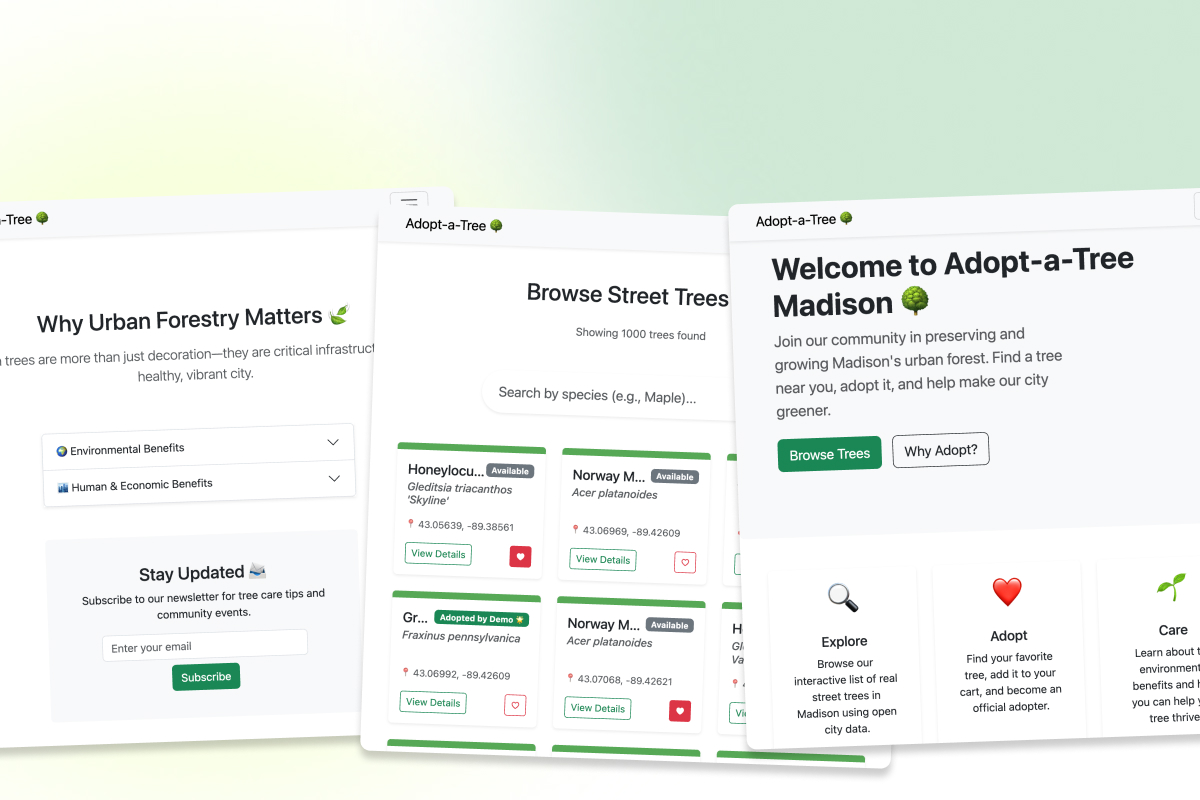
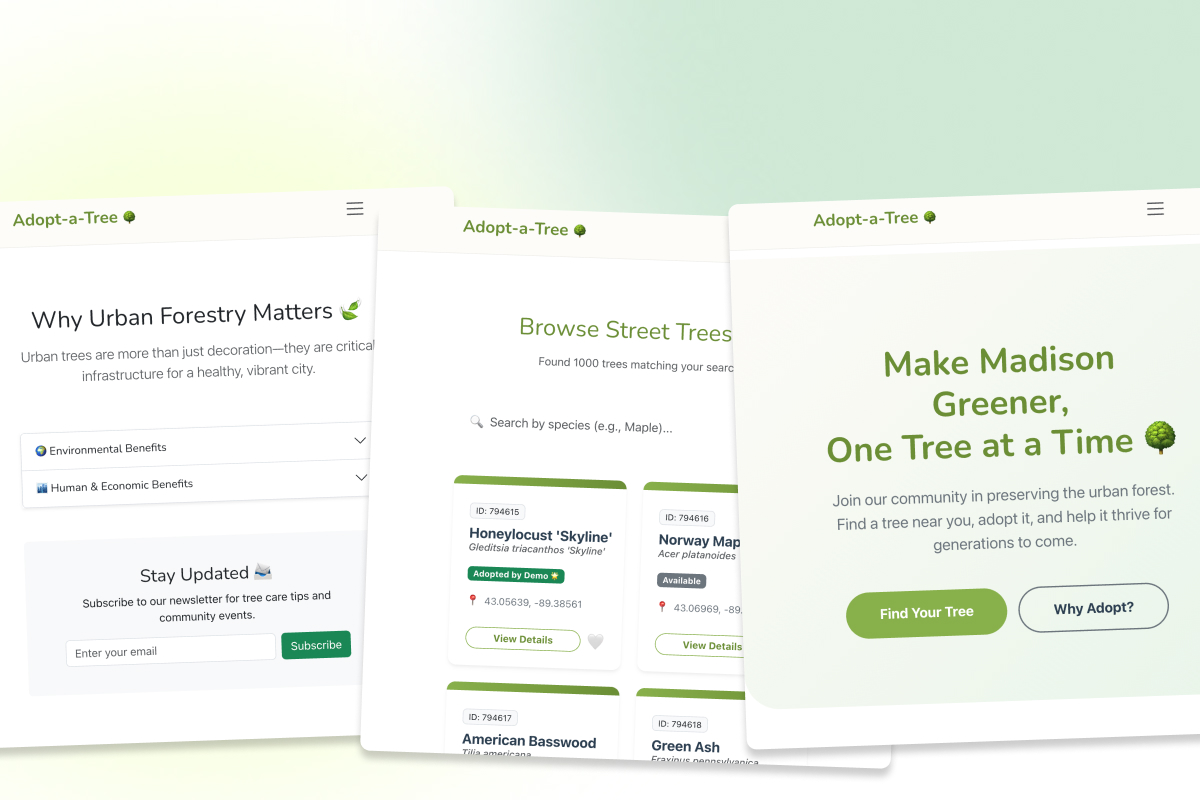
tab title modified, highlight responsibility enhanced

diff --git a/docs/assets/index-Dex9a5OG.css b/docs/assets/index-Dex9a5OG.css
@@ -1,0 +1,1 @@
+:root{--primary-color: #FDACAC;--primary-hover: #FD7979;--background-color: #fff0f3;--surface-color: #ffffff;--text-color: #4a5568;--text-muted: #94a3b8;--accent-color: #a0c4ff;--accent-glow: #fdfd96;--spacing-xs: .5rem;--spacing-sm: 1rem;--spacing-md: 2rem;--spacing-lg: 4rem;--spacing-xl: 8rem;--font-heading: "Outfit", sans-serif;--font-body: "Inter", sans-serif;--container-width: 1200px;--header-height: 80px;--border-radius: 20px}*{margin:0;padding:0;box-sizing:border-box}html{scroll-behavior:smooth}body{font-family:var(--font-body);background-color:var(--background-color);color:var(--text-color);line-height:1.6;overflow-x:hidden}h1,h2,h3,h4,h5,h6{font-family:var(--font-heading);color:var(--text-color);line-height:1.2}a{text-decoration:none;color:inherit;transition:all .3s ease}ul{list-style:none}img{max-width:100%;display:block}.container{max-width:var(--container-width);margin:0 auto;padding:0 var(--spacing-sm)}.btn{display:inline-block;padding:.75rem 1.75rem;border-radius:99px;font-weight:600;cursor:pointer;transition:all .3s ease}.btn-primary{background-color:var(--primary-color);color:#fff;box-shadow:0 4px 14px #ff8fa366}.btn-primary:hover{background-color:var(--primary-hover);transform:translateY(-2px) scale(1.02);box-shadow:0 6px 20px #ff8fa399}.btn-secondary{background-color:#fff;border:2px solid var(--primary-color);color:var(--primary-color)}.btn-secondary:hover{background-color:var(--primary-color);color:#fff;transform:translateY(-2px)}.section{padding:var(--spacing-lg) 0}#about .container,#contact .container{display:flex;flex-direction:column;align-items:center;text-align:center}.about-content{max-width:700px}.section-title{font-size:2.5rem;margin-bottom:var(--spacing-md);text-align:center;color:var(--text-color)}.header{height:var(--header-height);display:flex;align-items:center;position:fixed;top:0;left:0;width:100%;background-color:#fff3;-webkit-backdrop-filter:blur(12px);backdrop-filter:blur(12px);z-index:1000;border-bottom:1px solid rgba(255,143,163,.1)}.header .container{display:flex;justify-content:space-between;align-items:center;width:100%}.logo{font-family:var(--font-heading);font-size:1.75rem;font-weight:800;color:var(--primary-color);letter-spacing:-1px}.nav-list{display:flex;gap:var(--spacing-md)}.nav-link{font-weight:500}.nav-link:hover{color:var(--primary-color)}.hero-section{min-height:100vh;display:flex;align-items:center;padding-top:var(--header-height);background:radial-gradient(circle at 10% 10%,rgba(255,143,163,.1),transparent 40%),radial-gradient(circle at 90% 90%,rgba(160,196,255,.1),transparent 40%)}.hero-title{font-size:clamp(2.5rem,5vw,4.5rem);margin-bottom:var(--spacing-sm);max-width:800px;color:var(--text-color)}.highlight{color:var(--primary-color);position:relative;z-index:1}.highlight:after{content:"";position:absolute;bottom:5px;left:0%;width:100%;height:20px;background-color:var(--accent-glow);z-index:-1;border-radius:1px;opacity:.6}.hero-subtitle{font-size:1.25rem;color:var(--text-muted);margin-bottom:var(--spacing-md);max-width:600px}.hero-cta{display:flex;gap:var(--spacing-sm)}.footer{padding:var(--spacing-md) 0;text-align:center;color:var(--text-muted);background-color:#fff3;margin-top:var(--spacing-lg)}.mobile-menu-btn{display:none;background:none;border:none;cursor:pointer;flex-direction:column;gap:6px}.mobile-menu-btn span{display:block;width:25px;height:3px;background-color:var(--primary-color);border-radius:3px}.theme-toggle{background:none;border:none;color:var(--text-color);cursor:pointer;font-size:1.25rem;margin-left:var(--spacing-sm)}@media(max-width:768px){.nav{position:fixed;top:var(--header-height);left:0;width:100%;background-color:#fff;padding:var(--spacing-md);box-shadow:0 10px 30px #0000000d;transform:translateY(-150%);transition:transform .3s cubic-bezier(.16,1,.3,1);z-index:999}.nav.active{transform:translateY(0)}.nav-list{flex-direction:column;align-items:center;gap:var(--spacing-sm)}.mobile-menu-btn{display:flex;z-index:1001}.mobile-menu-btn.active span:nth-child(1){transform:rotate(45deg) translate(5px,7px)}.mobile-menu-btn.active span:nth-child(2){transform:rotate(-45deg) translate(5px,-7px)}.mobile-menu-btn span{transition:transform .3s ease}}.projects-grid{display:grid;grid-template-columns:repeat(auto-fit,minmax(300px,1fr));gap:var(--spacing-md)}.project-card{background-color:#fff;border-radius:var(--border-radius);overflow:hidden;transition:all .4s cubic-bezier(.175,.885,.32,1.275);border:1px solid rgba(0,0,0,.03);box-shadow:0 4px 6px #00000005}.project-card:hover{transform:translateY(-8px);box-shadow:0 20px 40px #ff8fa326;border-color:#ff8fa34d}.project-image{height:200px;overflow:hidden}.project-image img{width:100%;height:100%;object-fit:cover;transition:transform .5s ease}.project-card:hover .project-image img{transform:scale(1.1)}.project-content{padding:var(--spacing-md)}.project-title{font-size:1.35rem;font-weight:700;margin-bottom:var(--spacing-xs);color:var(--text-color)}.project-description{color:var(--text-muted);font-size:.95rem;margin-bottom:var(--spacing-sm);display:-webkit-box;-webkit-line-clamp:3;line-clamp:3;-webkit-box-orient:vertical;overflow:hidden}.project-tags{display:flex;gap:.5rem;margin-bottom:var(--spacing-sm);flex-wrap:wrap}.tag{background-color:#a0c4ff26;color:#5c8ddb;padding:.35rem 1rem;border-radius:99px;font-size:.75rem;font-weight:600}.project-link{color:var(--primary-color);font-weight:700;font-size:.95rem;display:inline-block}.project-link:hover{text-decoration:none;transform:translate(5px)}[data-theme=dark]{--primary-color: #6366f1;--primary-hover: #4f46e5;--background-color: #0f172a;--surface-color: #1e293b;--text-color: #f8fafc;--text-muted: #94a3b8;--accent-color: #38bdf8;--accent-glow: rgba(99, 102, 241, .5)}[data-theme=dark] .project-card{border-color:#ffffff0d;background-color:var(--surface-color)}[data-theme=dark] .header{background-color:#0f172a33;border-bottom:1px solid rgba(255,255,255,.05)}[data-theme=dark] .footer{background-color:transparent;border-top:1px solid rgba(255,255,255,.05)}[data-theme=dark] .btn-secondary{border-color:var(--text-muted);color:var(--text-color);background-color:transparent}[data-theme=dark] .btn-secondary:hover{background-color:#ffffff0d;border-color:var(--text-color)}[data-theme=dark] .highlight:after{background-color:#393ceb80}[data-theme=dark] .btn-primary{box-shadow:0 4px 14px #6366f166}[data-theme=dark] .btn-primary:hover{box-shadow:0 6px 20px #6366f199}[data-theme=dark] .project-title{color:var(--text-color)}[data-theme=dark] .project-card:hover{box-shadow:0 20px 40px #6366f126;border-color:var(--primary-color)}

diff --git a/docs/index.html b/docs/index.html
@@ -1,14 +1,17 @@
 <!doctype html>
 <html lang="en">
-  <head>
-    <meta charset="UTF-8" />
-    <link rel="icon" type="image/svg+xml" href="./vite.svg" />
-    <meta name="viewport" content="width=device-width, initial-scale=1.0" />
-    <title>portfolio</title>
-    <script type="module" crossorigin src="./assets/index-CVTL7ghX.js"></script>
-    <link rel="stylesheet" crossorigin href="./assets/index-oN4M3bQj.css">
-  </head>
-  <body>
-    <div id="root"></div>
-  </body>
+
+<head>
+  <meta charset="UTF-8" />
+  <link rel="icon" type="image/svg+xml" href="./vite.svg" />
+  <meta name="viewport" content="width=device-width, initial-scale=1.0" />
+  <title>Ting Chang's Portfolio</title>
+  <script type="module" crossorigin src="./assets/index-BIK8643R.js"></script>
+  <link rel="stylesheet" crossorigin href="./assets/index-Dex9a5OG.css">
+</head>
+
+<body>
+  <div id="root"></div>
+</body>
+
 </html>

diff --git a/index.html b/index.html
@@ -1,13 +1,16 @@
 <!doctype html>
 <html lang="en">
-  <head>
-    <meta charset="UTF-8" />
-    <link rel="icon" type="image/svg+xml" href="/vite.svg" />
-    <meta name="viewport" content="width=device-width, initial-scale=1.0" />
-    <title>portfolio</title>
-  </head>
-  <body>
-    <div id="root"></div>
-    <script type="module" src="/src/main.jsx"></script>
-  </body>
+
+<head>
+  <meta charset="UTF-8" />
+  <link rel="icon" type="image/svg+xml" href="/vite.svg" />
+  <meta name="viewport" content="width=device-width, initial-scale=1.0" />
+  <title>Ting Chang's Portfolio</title>
+</head>
+
+<body>
+  <div id="root"></div>
+  <script type="module" src="/src/main.jsx"></script>
+</body>
+
 </html>

diff --git a/src/index.css b/src/index.css
@@ -212,12 +212,12 @@ img {
   content: '';
   position: absolute;
   bottom: 5px;
-  left: -90%;
-  width: 200%;
+  left: 0%;
+  width: 100%;
   height: 20px;
   background-color: var(--accent-glow);
   z-index: -1;
-  border-radius: 4px;
+  border-radius: 1px;
   opacity: 0.6;
 }
 
@@ -452,11 +452,6 @@ img {
 
 [data-theme='dark'] .highlight::after {
   background-color: rgba(57, 60, 235, 0.5);
-  height: 20px;
-  /* Reset highlight height for dark mode style */
-  bottom: 5px;
-  left: -90%;
-  width: 200%;
 }
 
 [data-theme='dark'] .btn-primary {
